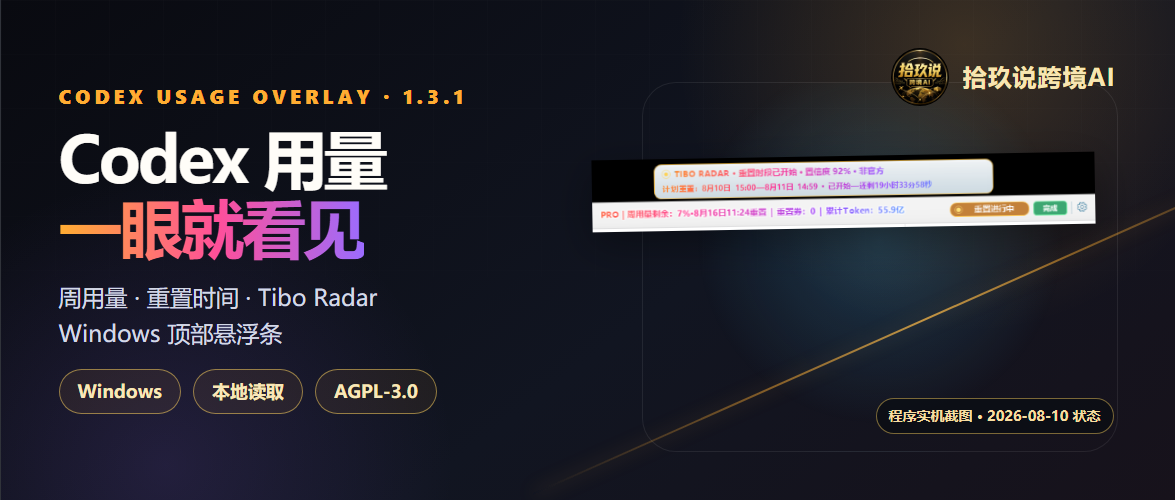
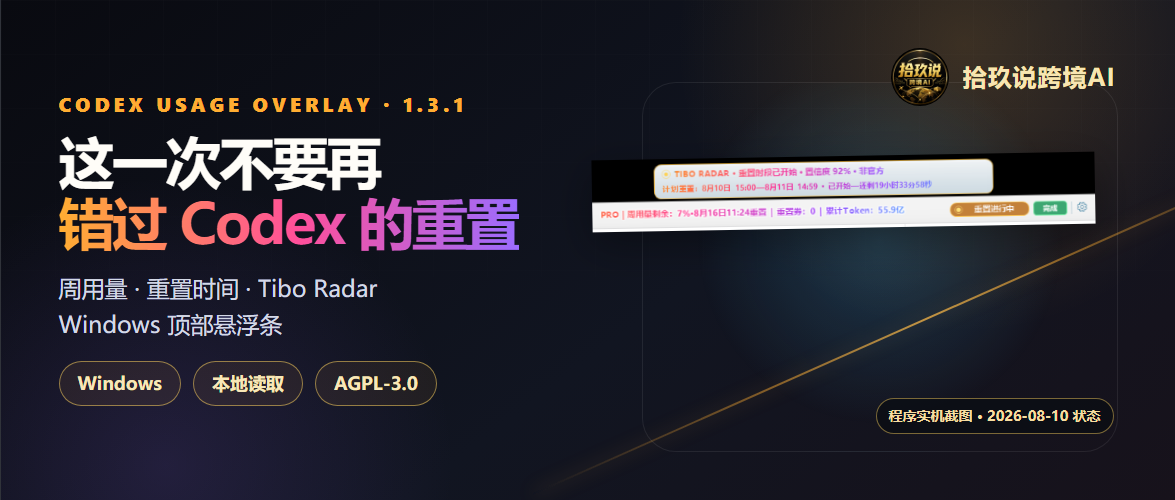
docs: refresh v1.3.1 reset publishing covers

Changed region(s): [[0.0306, 0.18, 0.4596, 0.69], [0.0613, 0.72, 0.3677, 0.84]]

diff --git a/docs/publishing/assets-src/cards.html b/docs/publishing/assets-src/cards.html
@@ -186,7 +186,8 @@
   /* WeChat cover */
   .wechat-cover { display: grid; grid-template-columns: 1.02fr .98fr; align-items: center; gap: 32px; }
   .wechat-cover .copy { display: grid; gap: 18px; align-content: center; }
-  .wechat-cover h1 { font-size: 64px; }
+  .wechat-cover h1 { font-size: 56px; }
+  .wechat-cover h1 .gradient-text { white-space: nowrap; }
   .wechat-cover .sub { font-size: 23px; color: #d4d9e7; line-height: 1.55; }
   .wechat-cover .visual { position: relative; height: 404px; }
   .wechat-cover .visual .halo {
@@ -203,7 +204,7 @@
   .wechat-square .copy { margin-top: 58px; }
   .wechat-square h1 { margin-top: 20px; font-size: 80px; max-width: 880px; }
   .wechat-square .sub { margin-top: 22px; font-size: 26px; color:#d3d9e7; }
-  .wechat-square .square-stage { position:absolute; left:68px; right:68px; bottom:64px; height:390px; padding:66px 28px; border-radius:32px; }
+  .wechat-square .square-stage { position:absolute; left:68px; right:68px; bottom:64px; height:390px; padding:34px 28px; border-radius:32px; display:flex; flex-direction:column; align-items:center; justify-content:center; }
   .wechat-square .square-stage .live-state-shot { width:664px; margin:0 auto; }
   .wechat-square .square-stage .caption { margin-top:30px; text-align:center; }
 
@@ -329,7 +330,7 @@
 <article id="wechat-cover" class="artboard wechat-cover">
   <section class="copy">
     <div class="eyebrow">CODEX USAGE OVERLAY · 1.3.1</div>
-    <h1>Codex 用量<br><span class="gradient-text">一眼就看见</span></h1>
+    <h1>这一次不要再<br><span class="gradient-text">错过 Codex 的重置</span></h1>
     <p class="sub">周用量 · 重置时间 · Tibo Radar<br>Windows 顶部悬浮条</p>
     <div class="badge-row">
       <span class="badge">Windows</span><span class="badge">本地读取</span><span class="badge">AGPL-3.0</span>
@@ -345,7 +346,7 @@
 
 <article id="wechat-cover-square" class="artboard wechat-square">
   <div class="top"><div class="brand"><img src="../../../installer-assets/brand-logo.png" alt=""><span>拾玖说跨境AI</span></div><div class="page-number">WINDOWS · v1.3.1</div></div>
-  <section class="copy"><div class="eyebrow">CODEX USAGE OVERLAY</div><h1>Codex 用量<br><span class="gradient-text">一眼就看见</span></h1><p class="sub">周用量 · 重置时间 · Tibo Radar</p><div class="badge-row" style="margin-top:28px"><span class="badge">本地读取</span><span class="badge">AGPL-3.0</span></div></section>
+  <section class="copy"><div class="eyebrow">CODEX USAGE OVERLAY</div><h1>这一次不要再错过<br><span class="gradient-text">Codex 的重置</span></h1><p class="sub">周用量 · 重置时间 · Tibo Radar</p><div class="badge-row" style="margin-top:28px"><span class="badge">本地读取</span><span class="badge">AGPL-3.0</span></div></section>
   <section class="square-stage glass"><img class="live-state-shot" src="codex-overlay-reset-in-progress-2026-08-10.png" alt="Tibo Radar 重置时段已开始的实机截图"><p class="caption">程序实机截图｜2026-08-10 状态</p></section>
 </article>
 
@@ -421,7 +422,7 @@
 
 <article id="xhs-01-cover" class="artboard portrait xhs-cover">
   <div class="top"><div class="brand"><img src="../../../installer-assets/brand-logo.png" alt=""><span>拾玖说跨境AI</span></div><div class="page-number">WINDOWS · 1.3.1</div></div>
-  <section class="headline"><div class="eyebrow">CODEX USAGE OVERLAY</div><h1 style="margin-top:24px">错过 Tibo 重置<br><span class="gradient-text">像错失一个亿</span></h1><p class="sub">早点看预告，再决定什么时候用重置卡</p><div class="badge-row badges"><span class="badge">重置预告</span><span class="badge">额度安排</span><span class="badge">非官方</span></div></section>
+  <section class="headline"><div class="eyebrow">CODEX USAGE OVERLAY</div><h1 style="margin-top:24px">这一次不要再错过<br><span class="gradient-text">Codex 的重置</span></h1><p class="sub">早点看预告，再决定什么时候用重置卡</p><div class="badge-row badges"><span class="badge">重置预告</span><span class="badge">额度安排</span><span class="badge">非官方</span></div></section>
   <section class="product-stage glass"><img class="live-state-shot" src="codex-overlay-reset-in-progress-2026-08-10.png" alt="Tibo Radar 重置时段已开始的实机截图"><div class="live-status-line"><span class="dot"></span><span>截图中的状态为“重置时段已开始”</span></div><div class="mini"><span class="chip"><span class="dot"></span>程序实机截图</span><span class="chip">2026-08-10 状态</span></div></section>
 </article>
 
